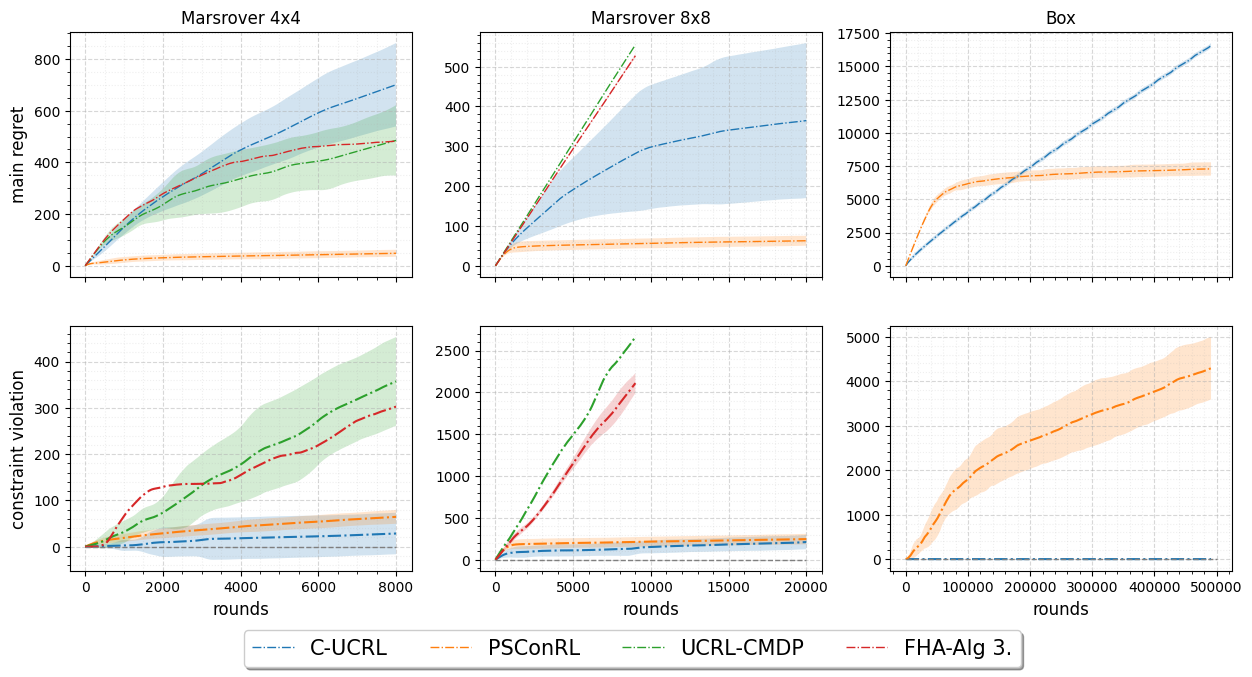
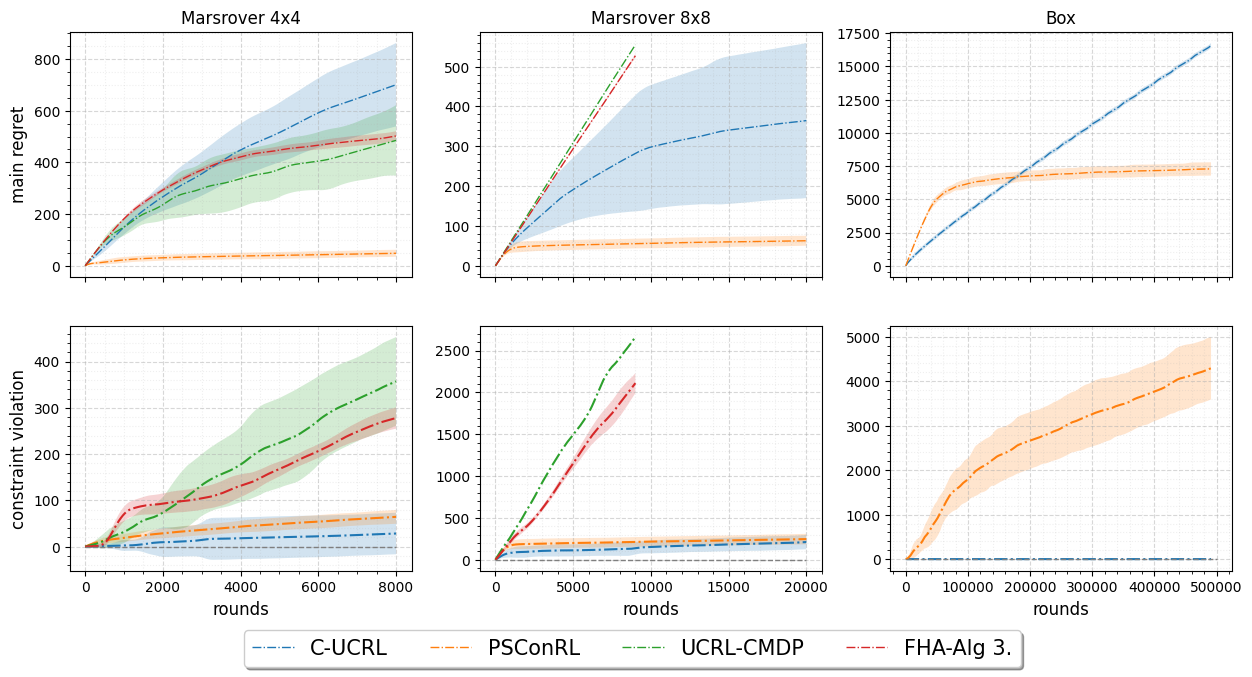
rearranged files

diff --git a/src/run.py b/src/run.py
@@ -57,7 +57,7 @@ def main():
     elif args.env == 'marsrover_gridworld':
         budget = [0.1]
         args._lambda_lr = 0.0035
-        args.horizon = 200
+        args.horizon = 120#200
         G = GridWorld(args=args)
         args.bonus_coef = 0.1
     elif args.env == 'box_gridworld':

diff --git a/src/plot_ind_performance.py b/src/plot_ind_performance.py
@@ -81,8 +81,8 @@ elif 'marsrover' in folder:
     fast_reward = -0.92307692
     opt_cost = 0.1
 
-    XMAX = 70000
-    n_average = 5000
+    XMAX = 20000
+    n_average = 500
     text_pos_x = 40000
     eps_shift_up = 0.004
     eps_shift_down = 0.008

diff --git a/README.md b/README.md
@@ -14,12 +14,13 @@ pip3 install git+https://github.com/timvieira/arsenal.git
 ```$ cd src```
 
 ### marsrover 4x4
-```$ python -u run.py --alg posterior_transitions cucrl_pessimistic --env gridworld --rounds 11000 --num_runs 50```
+```$ python -u run.py --alg posterior_transitions cucrl_conservative --env gridworld --rounds 11000 --num_runs 50```
+
 ```$ python -u run.py --alg cucrl_transitions fha_cmdp --env gridworld --rounds 11000 --num_runs 10```
 
 
 ### marsrover 8x8
-```$ python -u run.py --alg posterior_transitions cucrl_pessimistic --env marsrover_gridworld --rounds 20000 --num_runs 50```
+```$ python -u run.py --alg posterior_transitions cucrl_conservative --env marsrover_gridworld --rounds 20000 --num_runs 50```
 
 ### box 4x4
-```$ python -u run.py --alg posterior_transitions cucrl_pessimistic cucrl_optimistic --env box_gridworld --rounds 500000 --num_runs 30```
+```$ python -u run.py --alg posterior_transitions cucrl_conservative cucrl_optimistic --env box_gridworld --rounds 500000 --num_runs 30```
